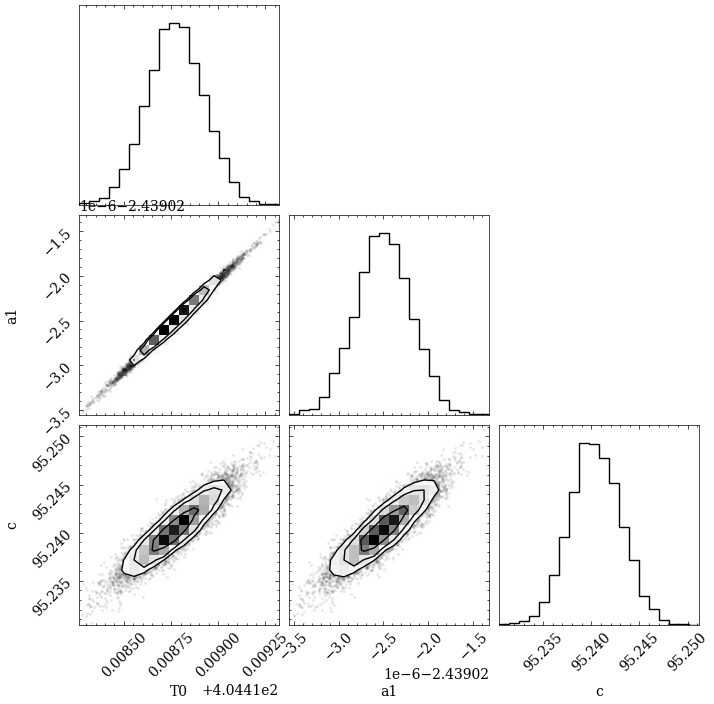
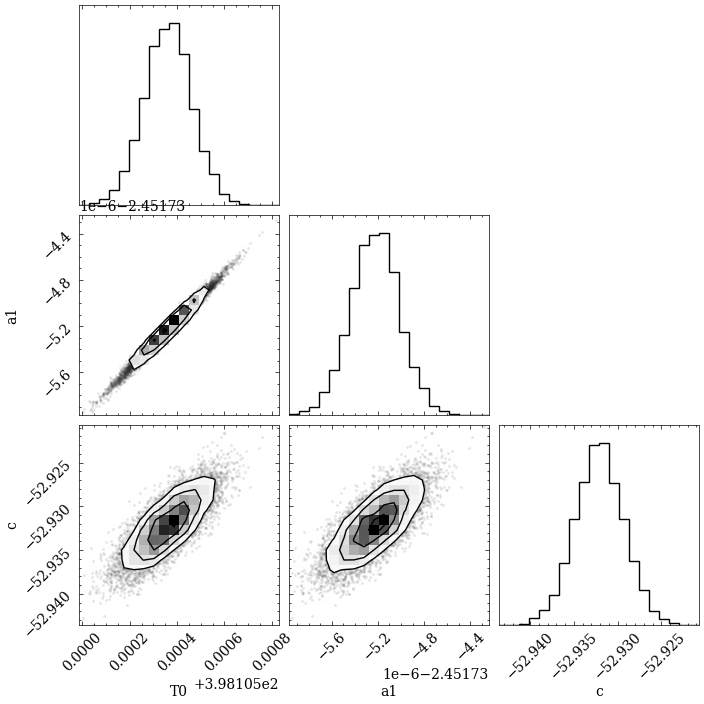
fixed to same file

diff --git a/signal_extraction_bayesian_highest_prob_sample.py b/signal_extraction_bayesian_highest_prob_sample.py
@@ -20,11 +20,13 @@ freqs_sky = np.rint(np.loadtxt(freq_file)).astype(int)
 temps_sky = np.loadtxt(sky_temp_file)
 
 signals_dir = "simulated_signals"
-files = [f for f in os.listdir(signals_dir) if os.path.isfile(os.path.join(signals_dir, f))]
-if not files:
-    raise FileNotFoundError(f"No files found in signals_dir: {signals_dir}")
-signal_file = os.path.join(signals_dir, random.choice(files))
-print("Using randomly selected file:", signal_file)
+# files = [f for f in os.listdir(signals_dir) if os.path.isfile(os.path.join(signals_dir, f))]
+# if not files:
+#     raise FileNotFoundError(f"No files found in signals_dir: {signals_dir}")
+# signal_file = os.path.join(signals_dir, random.choice(files))
+# print("Using randomly selected file:", signal_file)
+# selected_template_name = os.path.basename(signal_file)
+signal_file = os.path.join(signals_dir, "signal_fstar_0p1_vc_16p5_fx_1_tau_0p159596_alpha_1p25_nu_min_1p5_R_mfp_30.csv")
 selected_template_name = os.path.basename(signal_file)
 
 signals = np.loadtxt(signal_file, delimiter=',', skiprows=1)

diff --git a/signal_extraction_bayesian_mean_parameter.py b/signal_extraction_bayesian_mean_parameter.py
@@ -20,11 +20,13 @@ freqs_sky = np.rint(np.loadtxt(freq_file)).astype(int)
 temps_sky = np.loadtxt(sky_temp_file)
 
 signals_dir = "simulated_signals"
-files = [f for f in os.listdir(signals_dir) if os.path.isfile(os.path.join(signals_dir, f))]
-if not files:
-    raise FileNotFoundError(f"No files found in signals_dir: {signals_dir}")
-signal_file = os.path.join(signals_dir, random.choice(files))
-print("Using randomly selected file:", signal_file)
+# files = [f for f in os.listdir(signals_dir) if os.path.isfile(os.path.join(signals_dir, f))]
+# if not files:
+#     raise FileNotFoundError(f"No files found in signals_dir: {signals_dir}")
+# signal_file = os.path.join(signals_dir, random.choice(files))
+# print("Using randomly selected file:", signal_file)
+# selected_template_name = os.path.basename(signal_file)
+signal_file = os.path.join(signals_dir, "signal_fstar_0p1_vc_16p5_fx_1_tau_0p159596_alpha_1p25_nu_min_1p5_R_mfp_30.csv")
 selected_template_name = os.path.basename(signal_file)
 
 signals = np.loadtxt(signal_file, delimiter=',', skiprows=1)

diff --git a/signal_extraction_bayesian_mean_residuals.py b/signal_extraction_bayesian_mean_residuals.py
@@ -20,11 +20,13 @@ freqs_sky = np.rint(np.loadtxt(freq_file)).astype(int)
 temps_sky = np.loadtxt(sky_temp_file)
 
 signals_dir = "simulated_signals"
-files = [f for f in os.listdir(signals_dir) if os.path.isfile(os.path.join(signals_dir, f))]
-if not files:
-    raise FileNotFoundError(f"No files found in signals_dir: {signals_dir}")
-signal_file = os.path.join(signals_dir, random.choice(files))
-print("Using randomly selected file:", signal_file)
+# files = [f for f in os.listdir(signals_dir) if os.path.isfile(os.path.join(signals_dir, f))]
+# if not files:
+#     raise FileNotFoundError(f"No files found in signals_dir: {signals_dir}")
+# signal_file = os.path.join(signals_dir, random.choice(files))
+# print("Using randomly selected file:", signal_file)
+# selected_template_name = os.path.basename(signal_file)
+signal_file = os.path.join(signals_dir, "signal_fstar_0p1_vc_16p5_fx_1_tau_0p159596_alpha_1p25_nu_min_1p5_R_mfp_30.csv")
 selected_template_name = os.path.basename(signal_file)
 
 signals = np.loadtxt(signal_file, delimiter=',', skiprows=1)
